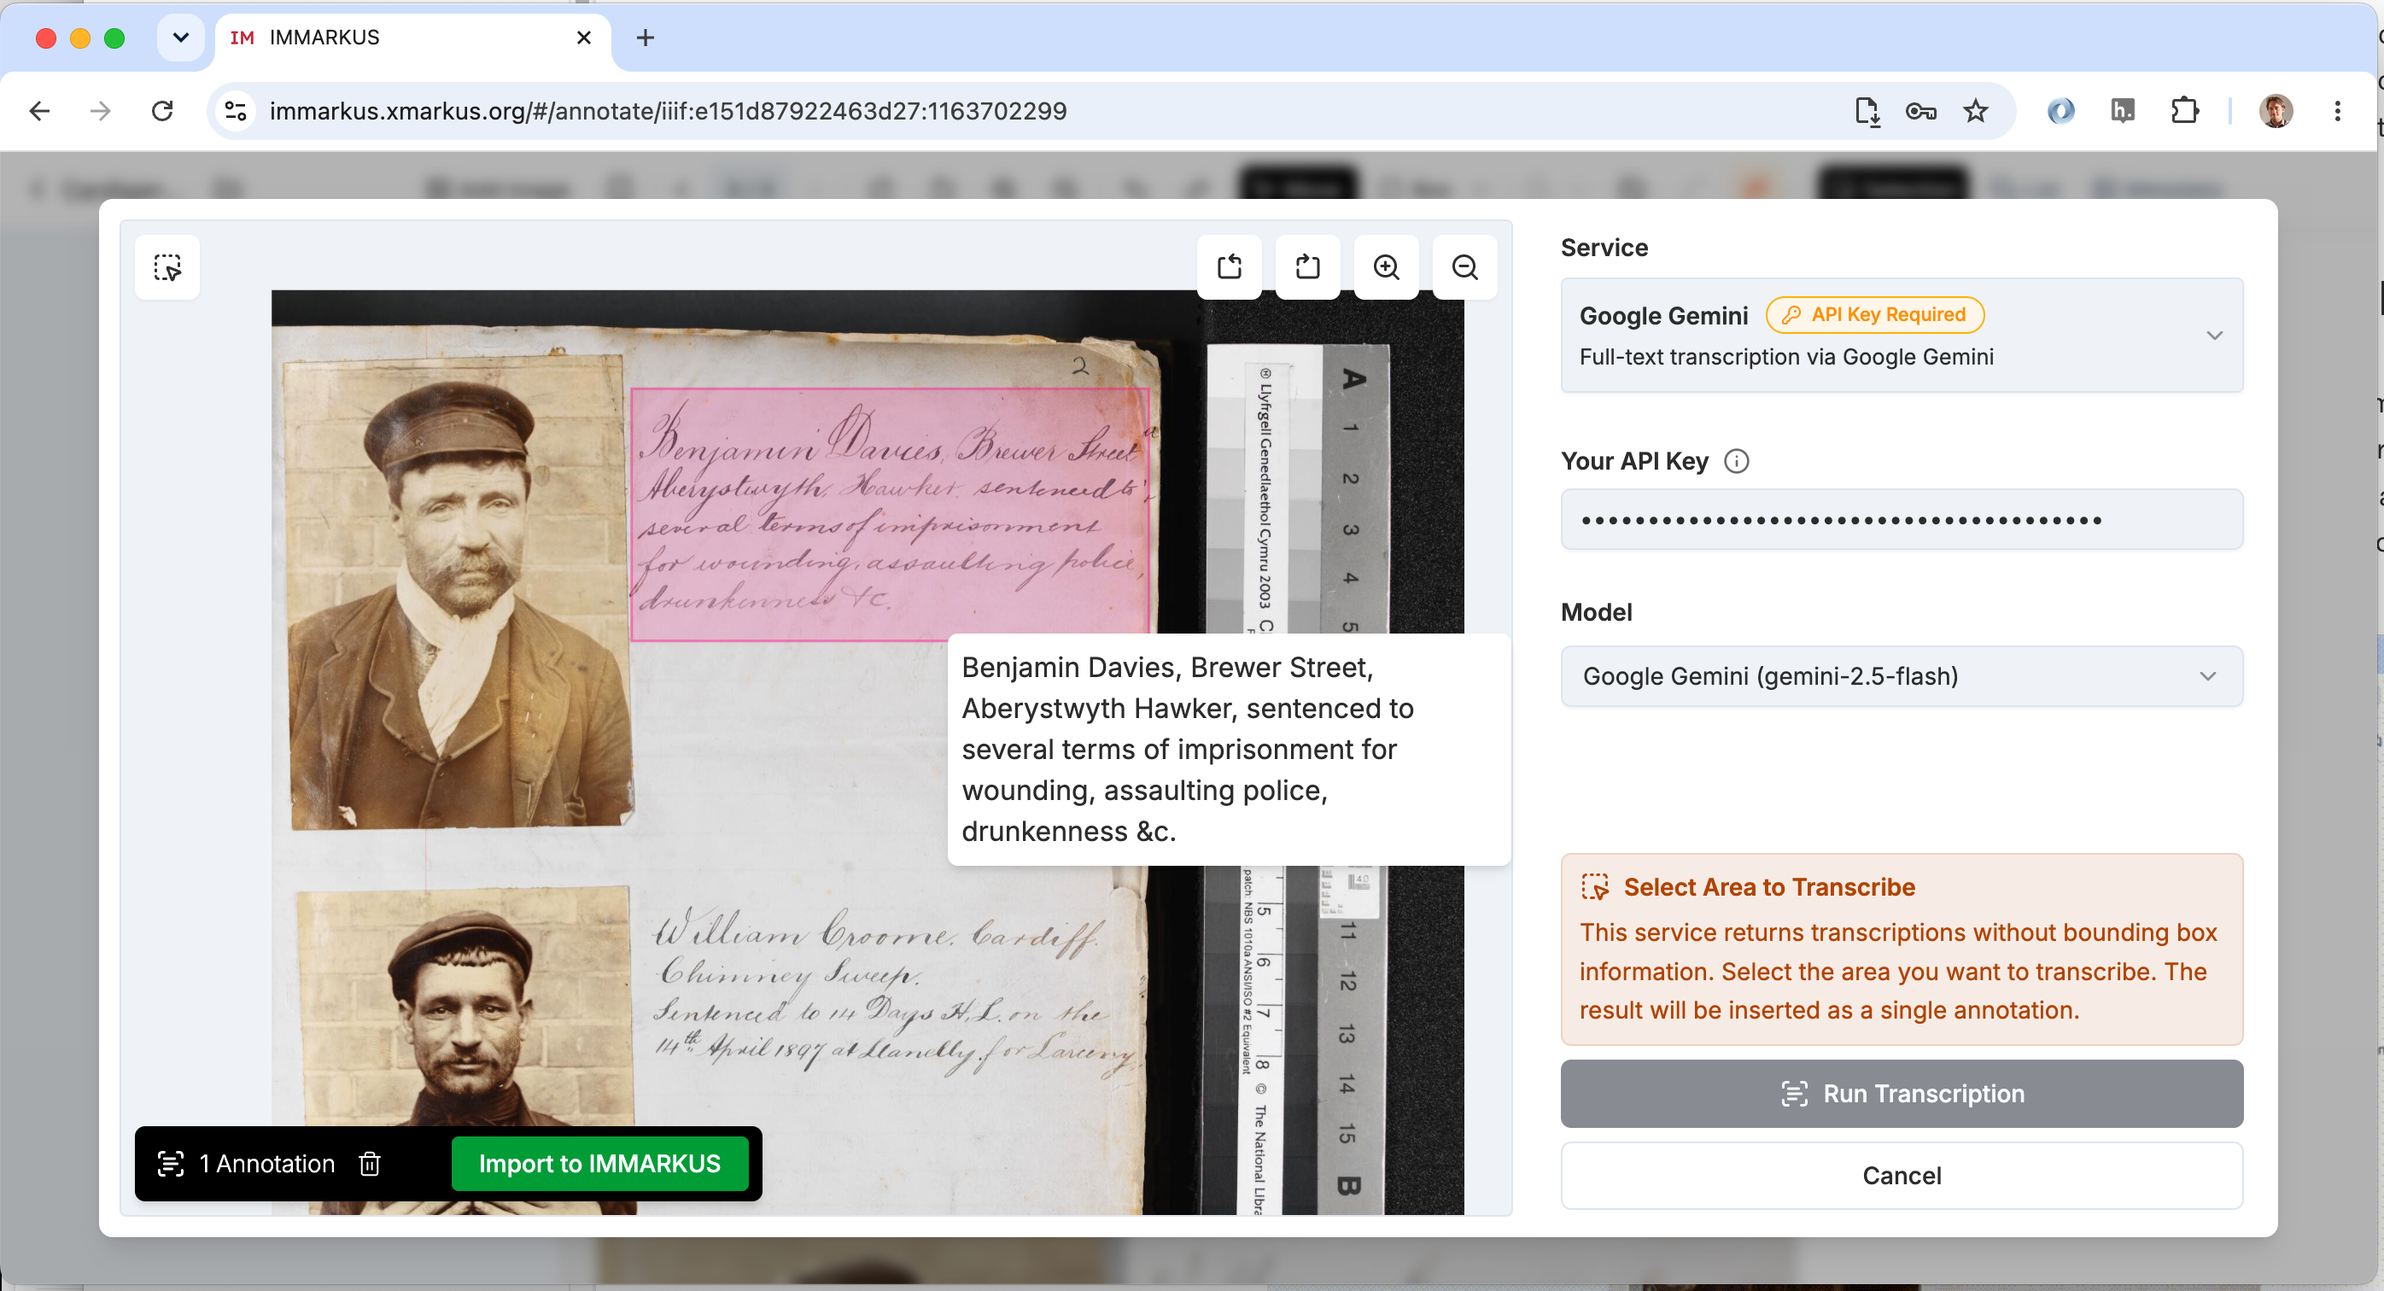
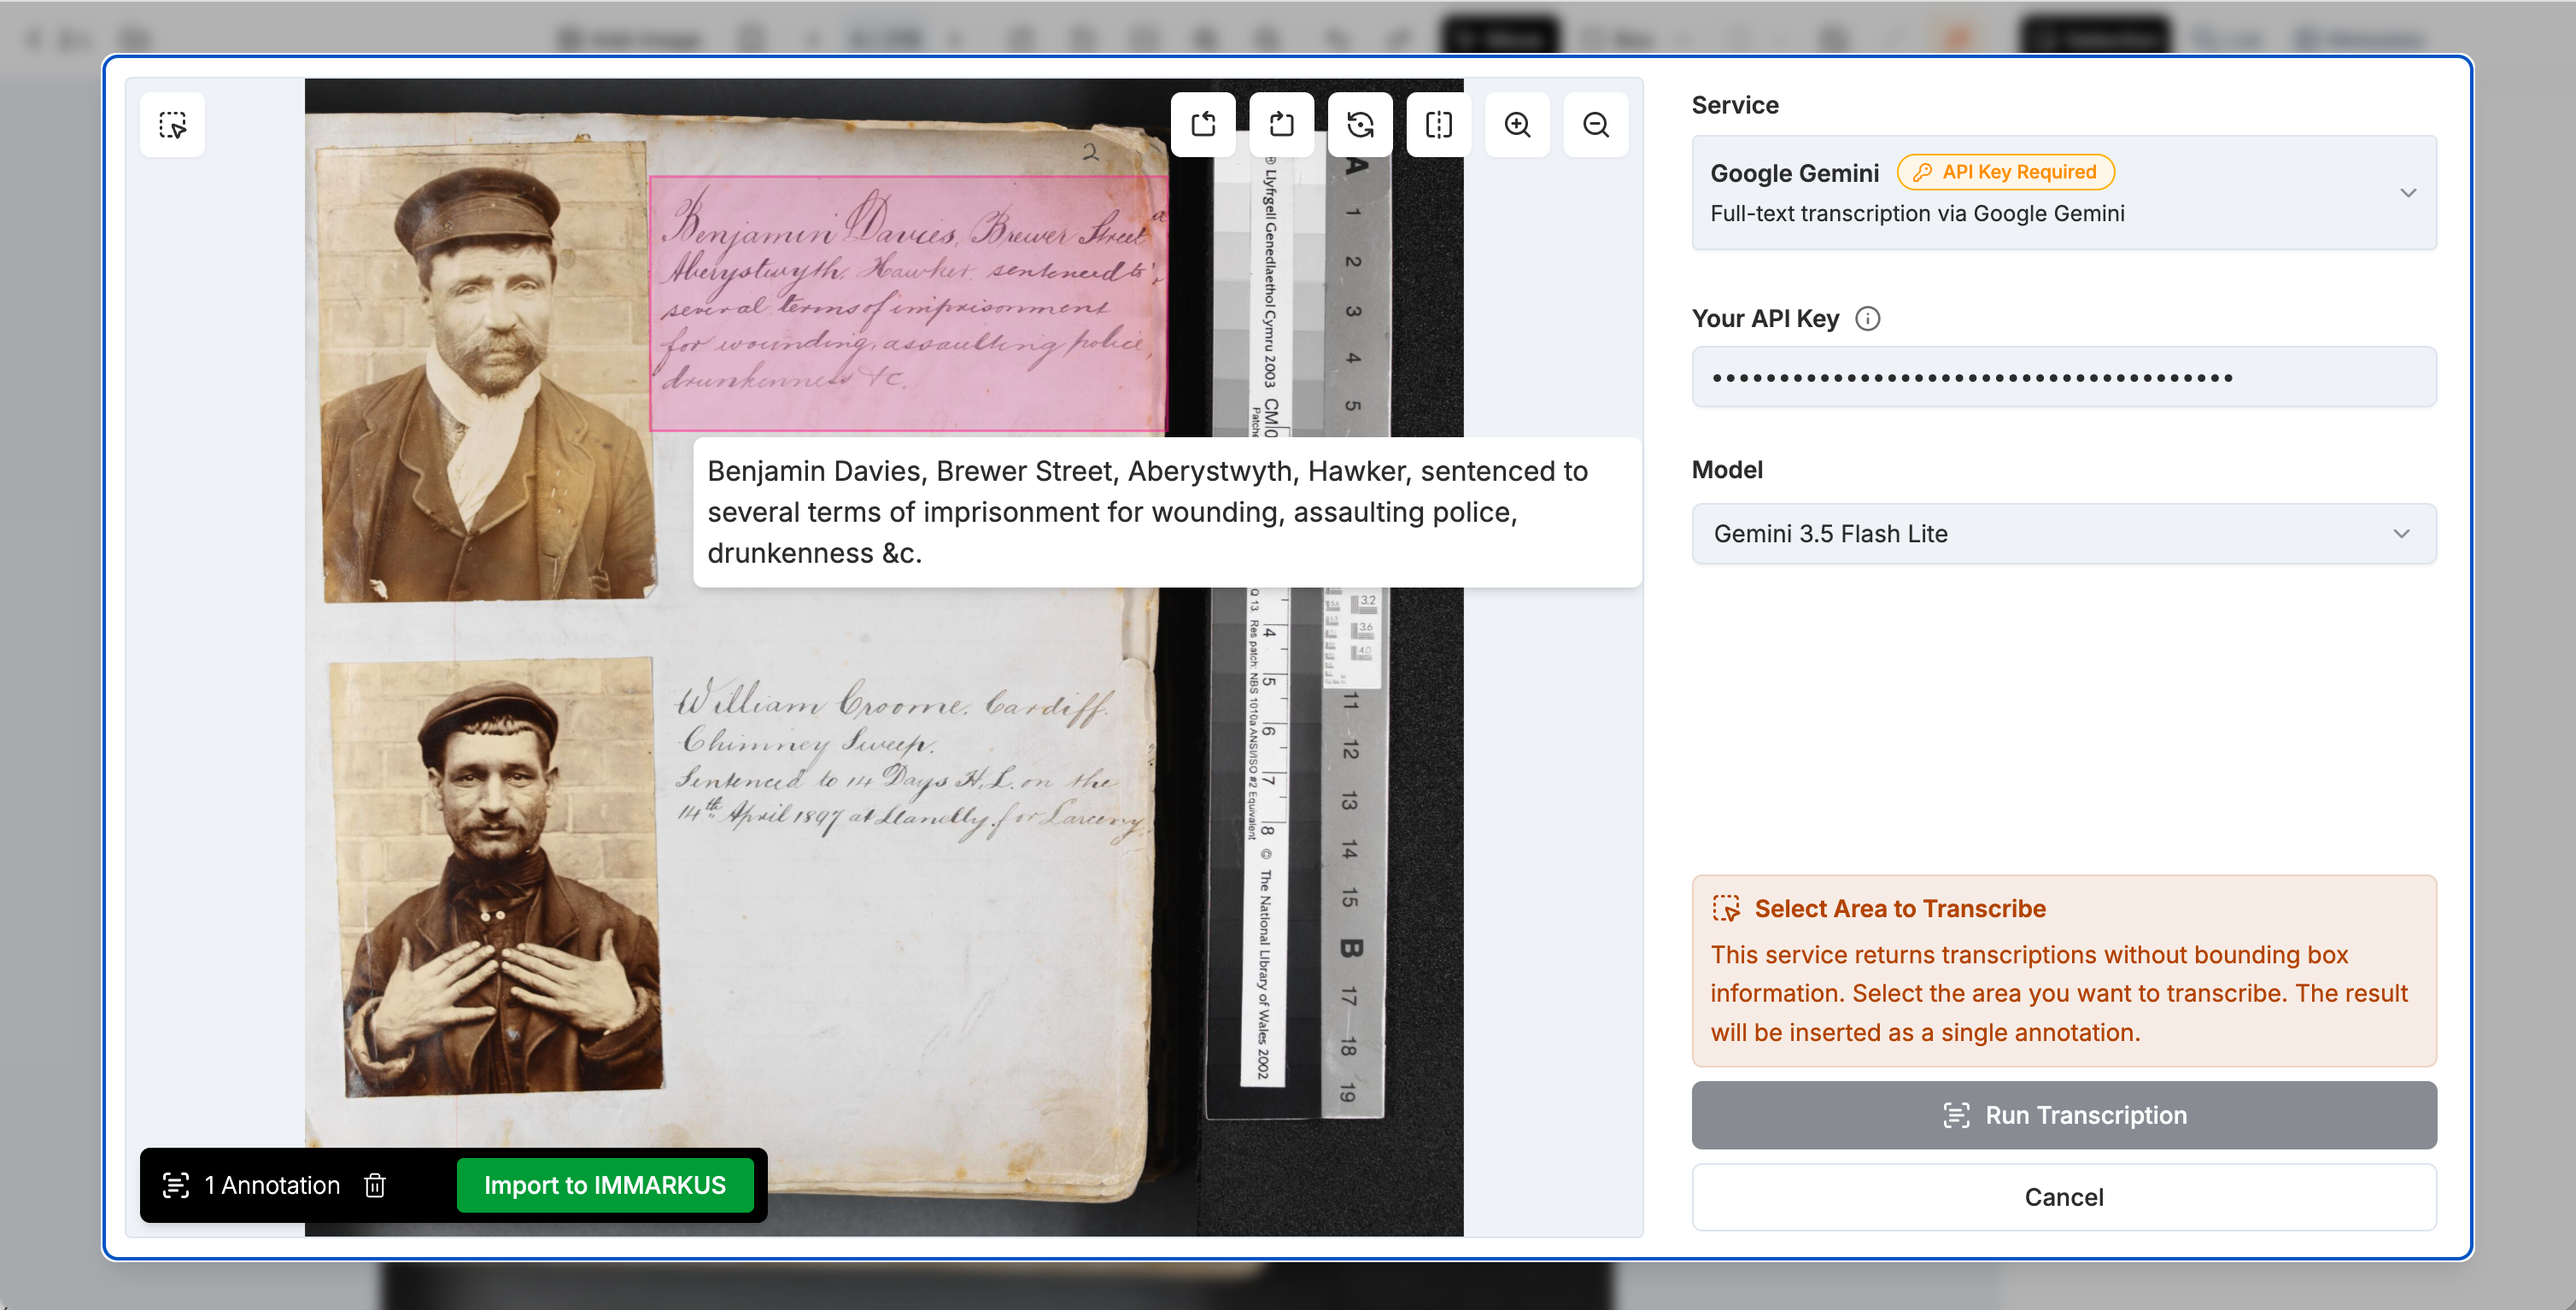
Switch to Google Gemini for transcription

diff --git a/iiif-online-workshop/day-four/annotating-immarkus.md b/iiif-online-workshop/day-four/annotating-immarkus.md
@@ -14,7 +14,7 @@ The overall steps are
  * Stage 2: Loading your manifest
  * Stage 3: Using the smart scissors
  * Stage 4: Auto transcription 
- * Getting a HuggingFace Token
+ * Getting a Google Gemini key
  * Finding more information on IMMARKUS
 
 There are two options for getting a Manifest to Annotate.
@@ -88,63 +88,49 @@ IMMARKUS has a number of innovative features to help with annotating including t
 
 ## Stage 4: Auto transcription 
 
-Another clever feature of IMMARKUS is the auto transcribe which can take a section of an image and send it to a Large Language Model (LLM) for transcription. To do this you need to register for one of the LLM services and get an API key. I am going to start with the process of transcription and then at the end show you how to get a transcription key from HuggingFace. 
+Another clever feature of IMMARKUS is the auto transcribe which can take a section of an image and send it to a Large Language Model (LLM) for transcription. To do this you need to register for one of the LLM services and get an API key. I am going to start with the process of transcription and then at the end show you how to get a transcription key for Google Gemini. 
 
 To do the transcription go to the smart tools menu item and select Auto Transcribe.
 
 ![Menu item showing auto transcribe](images/immarkus/auto-transcribe.png)
 
-IMMARKUS works with a number of different AI models some which are free to use and some you have to pay for. If you have a key for one of these services you can enter it and get it to do the transcription. For this workshop select "HuggingFace Inference".
+IMMARKUS works with a number of different AI models some which are free to use and some you have to pay for. If you have a key for one of these services you can enter it and get it to do the transcription. For this workshop select "Google Gemini".
 
-![aviliable models](images/immarkus/avilable_models.png)
+![aviliable models](images/immarkus/gemini_available_models.png)
 
-HuggingFace inference has two models aviliable for you to choose, Qwen and Gemma. I went for the Qwen model. You will also need to add your HuggingFace Access Token with details on how to get this token at the end of this section. 
+Google Gemini has a number of models available for you to choose, with include different versions and also different sizes of model. Pro is the best performing but slower and more expensive. Flash is the middle option with good performance and speed, Flash lite is the smallest and quickest. Its probably best to start with the lite version and if its not getting you the results you want you can switch to Flash then Pro. Note you will need your Google Gemini key from the section below. 
 
-![Hugging face example and select model](images/immarkus/huggingface_example.png)
+![Hugging face example and select model](images/immarkus/gemini_example.png)
 
 Once you have entered your token and selected your model you need to identify the part of the image you want to transcribe. Click the area button on the left highlighted in this image. Then like you did the annotations click once to start the box and then move the mouse and click again to close the box. 
 
-![Select region of the image to send to the LLM](images/immarkus/select_region.png)
+![Select region of the image to send to the LLM](images/immarkus/gemini_region.png)
 
 After you've drawn the box you should be able to click the run transcription button. Depending on how much text is in the box it can take a few seconds or minutes to do the transcription. 
 
-![View after area has been selected](images/immarkus/selected_area.png)
+![View after area has been selected](images/immarkus/gemini_selected_area.png)
 
-After the transcription is generated you can put your mouse cursor over the box to see the transcription. If it looks OK you can click the Import to IMMARKUS button to add the annotations to IMMARKUS for further editing. To delete the transcription you can click the bin symbol next to this button. The image below shows the results of the transcription using the HuggingFace model.
+After the transcription is generated you can put your mouse cursor over the box to see the transcription. If it looks OK you can click the Import to IMMARKUS button to add the annotations to IMMARKUS for further editing. To delete the transcription you can click the bin symbol next to this button. 
 
-![Huggingface results](images/immarkus/huggingFace_results.png)
+![Huggingface results](images/immarkus/gemini_results.png)
 
-Below are the results from sending the same box to Google Gemini. The results in this case are quite similar but I have come across instances where Google Gemini is a lot better at transcribing text. 
+### Getting a Google Gemini API key
 
-![Gemini results](images/immarkus/gemini_results.png)
+Google offers a free tier with the Gemini API Key which should be enough for our use cases. It throttles the use of the API key and restricts access to some of the latest models but for testing with IMMARKUS it should be fine. 
 
-### Getting a HuggingFace Token
+Navigate to https://aistudio.google.com/app/api-keys and login with you Google account. You should see something like the page below. Click on the Create API Key highlighted:
 
-HuggingFace is a website which hosts AI models and datasets used for training models. It also has a Inference service which is a bit like cloud hosting for AI models and allows us to run the model without having to install it locally. It is free to use but you need to register with HuggingFace and request a Access Token. To do this go to the Hugging face website and click signup:
+![Google API Studio](images/immarkus/gemini_studio.png)
 
-![Huggingface homepage](images/immarkus/huggingface_homepage.png)
+The next screen will ask you to name your API Key and this is so you can remember where you have used this key. You could call it IMMARKUS but any name will do. If you already have a google gemini project then select that but if not you can create one by choosing another name for the project. I went with Default Gemini Project as the project name.
 
-You will be asked to enter a username and password:
+![Name key](images/immarkus/gemini_studio_key.png)
 
-![Huggingface signup](images/immarkus/huggingface_signup.png)
+Once you click create key you should see the following screen. Note I have added black boxes to hide the key I created and project id but it should be visible on your screen. Make sure you copy the API Key as this is the only time you will see it. Once you click close on this dialog you won't be able to see the key again. 
 
-You will then be given the opportunity to share more details with HuggingFace. The ones that are manditory are the Username and agreeing to the terms and conditions. 
+![Key created](images/immarkus/gemini_studio_key-created.png)
 
-![huggingface profile](images/immarkus/huggingface_profile.png)
-
-You will then have to solve a Capture puzzle to ensure you are not a machine. After completing that you will also have to verify your email and you may have to login again. 
-
-Once you have logged in you should see the following screen. Click on the circle icon on the top right to open up your user menu and look towards the bottom where it says Access Tokens. Click this link. 
-
-![HuggingFace logged in screen showing the access tokens](images/immarkus/huggingface_loggedin.png)
-
-![HuggingFace tokens](images/immarkus/huggingface_tokens.png)
-
-To create your token add a name so you can idetify the token and then you only need to select the "Make calls to Inference Providers" permission for this token. Once you have done this scroll to the bottom of the page and click Create token. You will then be shown a screen where you can copy your token. Copy your token and store it somewhere safe as this is the only time you will see your token. Also ensure you don't share your token with someone else. 
-
-![HuggingFace create token](images/immarkus/huggingface_create_token1.png)
-
-This token you have created can now be pasted into IMMARKUS for the auto transcription process mentioned earlier. 
+The key you have created can now be pasted into IMMARKUS for the auto transcription process mentioned earlier. 
 
 ## Finding more information on IMMARKUS
 
